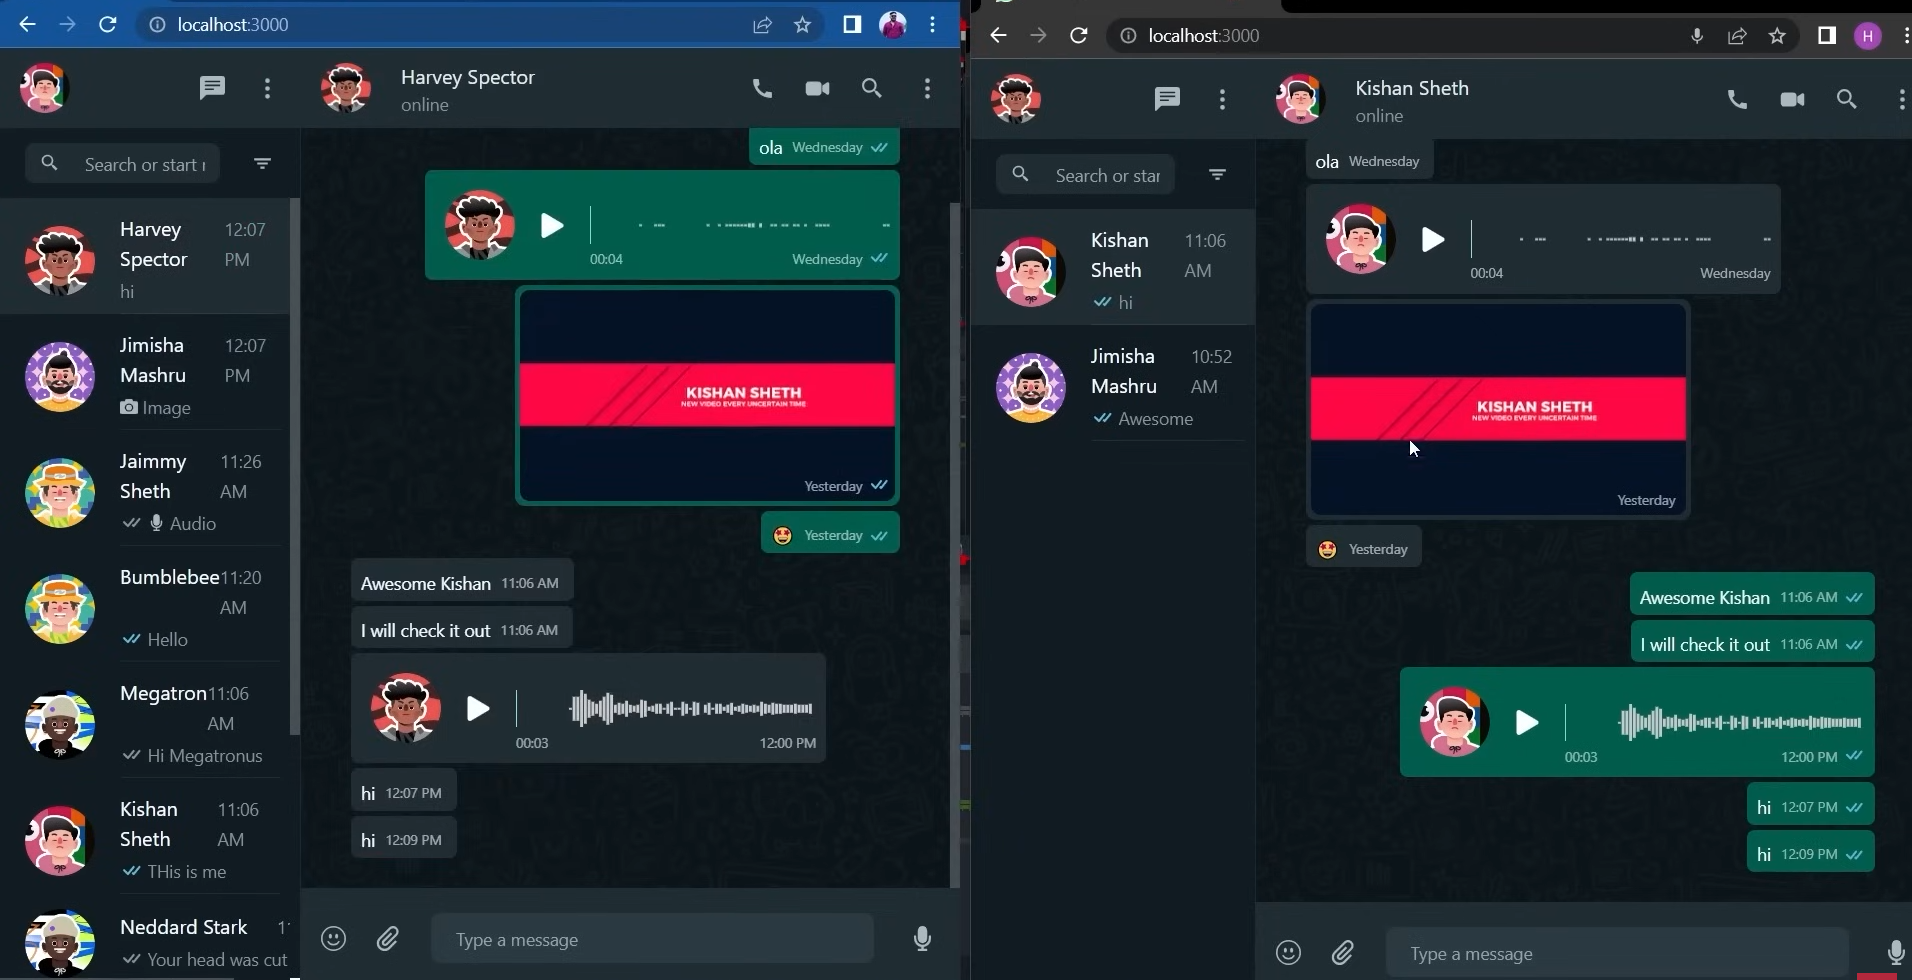
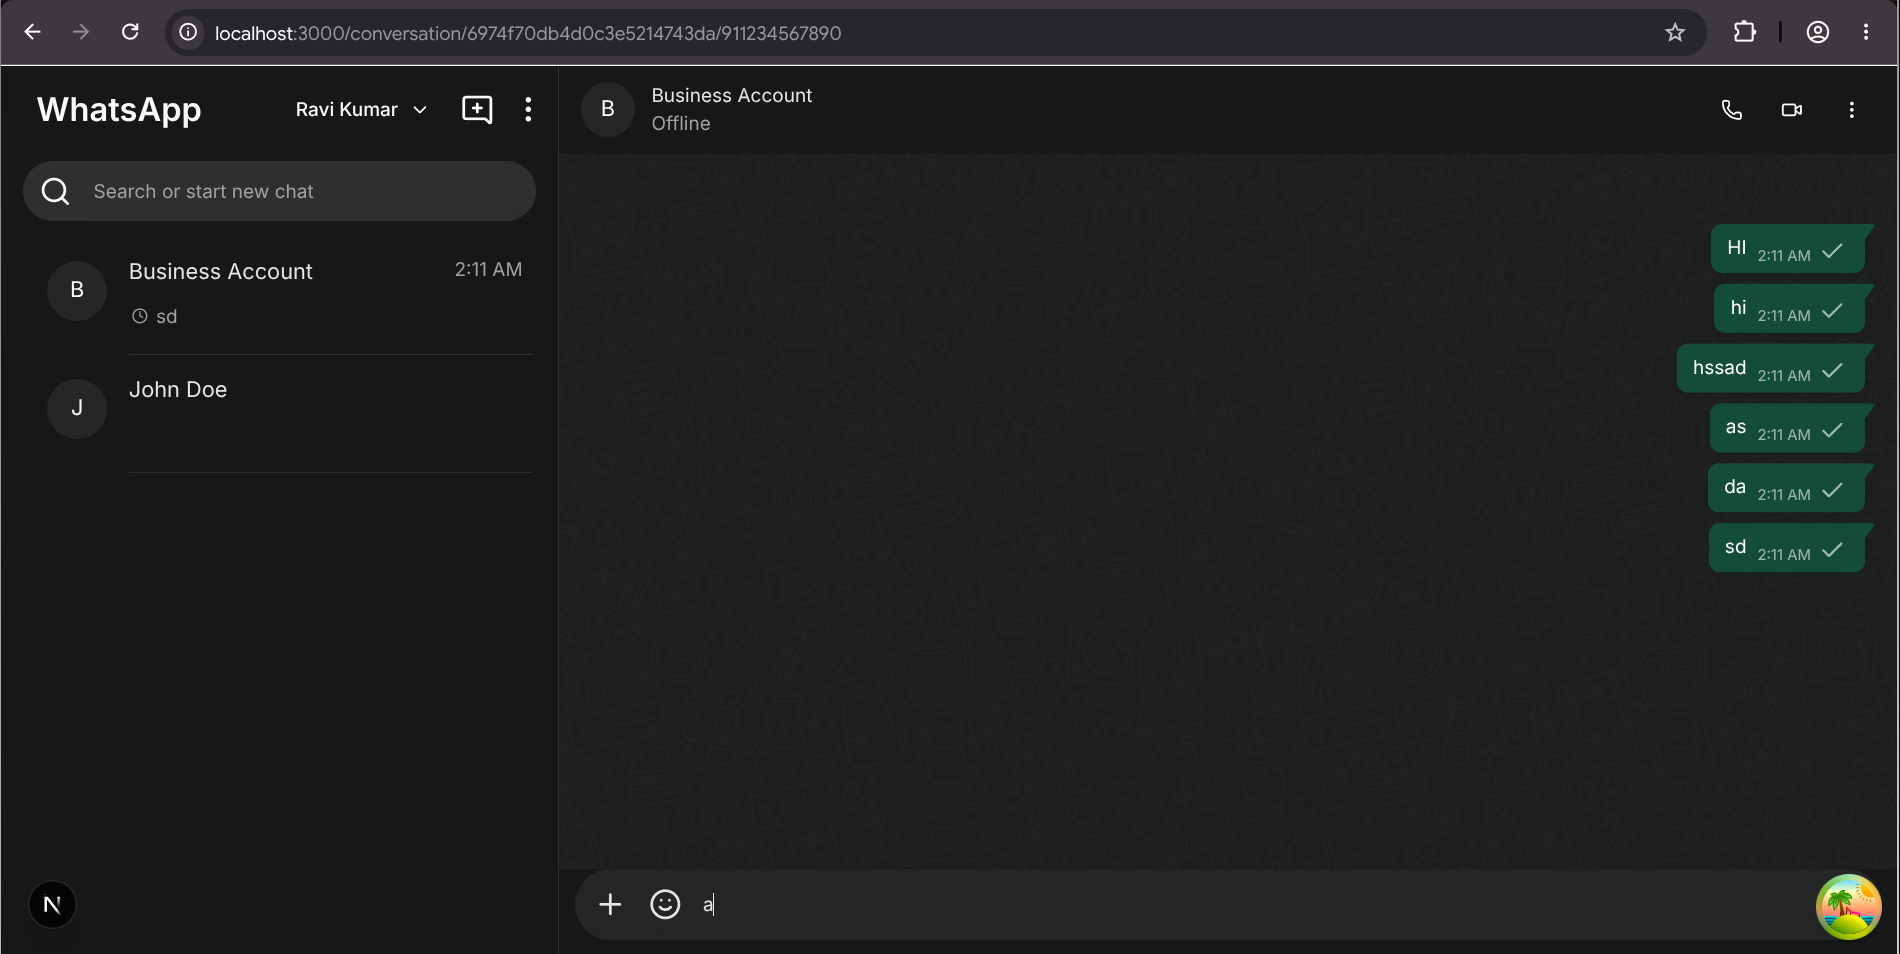
feat(portfolio): add realtime-market-lab case study, fix empty cover crash, replace unbackable highlight chips
- add content/projects/realtime-market-lab.mdx with simulator + performance sections
- add custom cover.svg for realtime-market-lab
- guard project images against missing/empty cover strings (?? does not catch '')
- replace fake SLA/CDC chips in EngineeringHighlights with metrics backed by actual code
- recompress quick-chat cover

diff --git a/components/Cards/ProjectsGallery.tsx b/components/Cards/ProjectsGallery.tsx
@@ -16,6 +16,9 @@ import { getAllProjects, getFeaturedProjects } from "@/lib/projects";
 import { useState } from "react";
 import { motion } from "motion/react";
 
+const PROJECT_COVER_FALLBACK = "/next.svg";
+const getProjectCover = (cover?: string) => cover?.trim() || PROJECT_COVER_FALLBACK;
+
 const ProjectsGallery = () => {
   const [galleryOpen, setGalleryOpen] = useState(false);
   const allProjects = getAllProjects();
@@ -76,7 +79,7 @@ const ProjectsGallery = () => {
                     loading="lazy"
                     alt={`${project.title} cover`}
                     fill
-                    src={project.cover ?? "/next.svg"}
+                    src={getProjectCover(project.cover)}
                     className="object-cover opacity-75 group-hover/thumb:opacity-100 transition-opacity"
                     sizes="180px"
                   />
@@ -97,7 +100,7 @@ const ProjectsGallery = () => {
                 <div className="flex items-center gap-2 min-w-0">
                   <div className="relative size-7 rounded-md overflow-hidden border border-white/10 shrink-0">
                     <Image
-                      src={project.cover ?? "/next.svg"}
+                      src={getProjectCover(project.cover)}
                       alt={project.title}
                       fill
                       className="object-cover group-hover/row:scale-105 transition-transform duration-300"

diff --git a/components/Cards/EngineeringHighlights.tsx b/components/Cards/EngineeringHighlights.tsx
@@ -3,12 +3,12 @@
 import { Gauge, CheckCircle2 } from "lucide-react";
 
 const STANDARDS = [
-  { name: "Zero-Loss Outbox", sub: "Transactional CDC" },
-  { name: "Circuit Breakers", sub: "Fallback isolation" },
-  { name: "p99 Latency SLA", sub: "Redis cache-aside" },
-  { name: "Strict Schemas", sub: "End-to-end types" },
-  { name: "OpenTelemetry", sub: "Distributed tracing" },
-  { name: "Local-First Sync", sub: "IndexedDB client state" },
+  { name: "Exactly-Once Consumers", sub: "processed_messages guard" },
+  { name: "Compensating Saga", sub: "auto stock rollback" },
+  { name: "Circuit Breakers", sub: "unit-tested transitions" },
+  { name: "50ms Batched Frames", sub: "server coalescing" },
+  { name: "Local-First Sync", sub: "Dexie.js / IndexedDB" },
+  { name: "Distributed Tracing", sub: "Jaeger + LGTM stack" },
 ];
 
 const EngineeringHighlights = () => {
@@ -24,7 +24,7 @@ const EngineeringHighlights = () => {
             </h3>
           </div>
           <span className="text-[8px] font-mono text-emerald-400 bg-emerald-500/10 px-1.5 py-0.5 rounded border border-emerald-500/20">
-            99.98% SLA
+            &lt;100ms Delivery
           </span>
         </div>
 

diff --git a/components/Cards/ProjectCard/index.tsx b/components/Cards/ProjectCard/index.tsx
@@ -4,6 +4,8 @@ import Image from "next/image";
 import { Github, Globe } from "lucide-react";
 import { Project } from "content-collections";
 
+const getProjectCover = (cover?: string) => cover?.trim() || "/next.svg";
+
 const ProjectCard = ({
   project: {
     title,
@@ -28,7 +30,7 @@ const ProjectCard = ({
       <div className="relative h-28 overflow-hidden sm:h-32">
         <div className="absolute inset-0 flex items-center justify-center">
           <Image
-            src={cover ?? "/next.svg"}
+            src={getProjectCover(cover)}
             alt={`${title} project cover image`}
             fill
             className="object-cover opacity-60 transition-all duration-700 group-hover:opacity-100 group-hover:scale-110"
